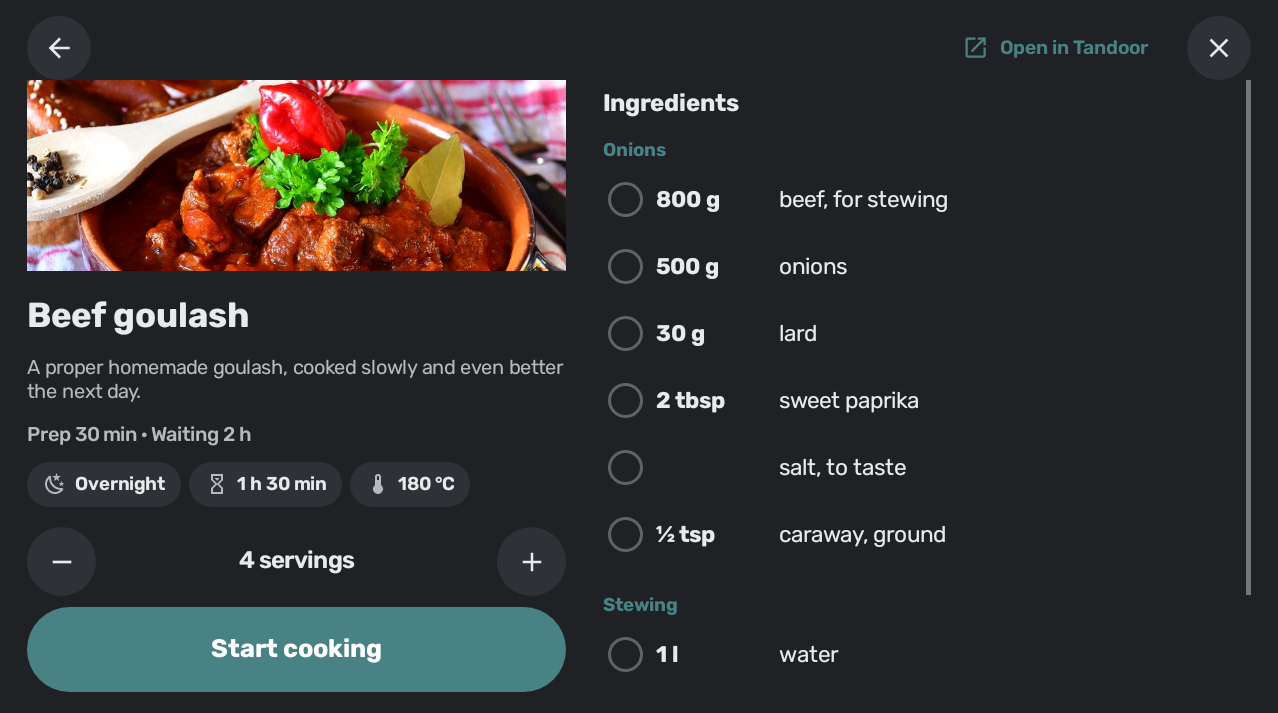
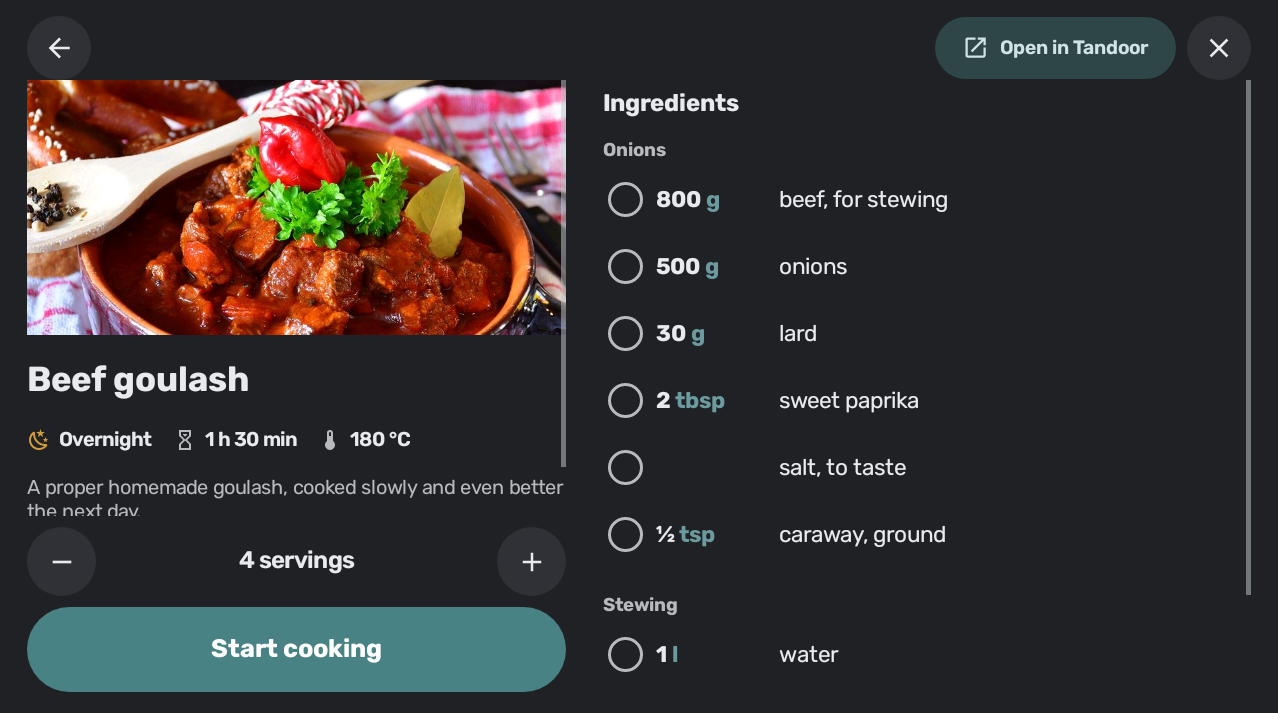
Release 0.2.0

diff --git a/CHANGELOG.md b/CHANGELOG.md
@@ -1,5 +1,19 @@
 # Changelog
 
+## 0.2.0
+
+A clearer kitchen screen, checked with three design reviews.
+
+- **Added** a Look setting. Warm kitchen gives the panel a cream or deep brown ground and a herb green, after Norish's look. The timer card over the dashboard keeps the kiosk's colors.
+- **Changed** the timer card over the dashboard: the time comes first and large, with +N for more timers, and the card turns red with Stop when a timer rings. It showed a fifth and sixth timer it meant to leave out.
+- **Changed** the timer sheet: delete is a bin set apart from pause, and a paused timer says so.
+- **Changed** contrast throughout: text buttons, ingredient rings, the selected filter, meal types and the step previews read at 4.5:1, or 3:1 for marks.
+- **Changed** the recipe page: a larger rounded photo, the overnight, long-wait and oven warnings right under the name, and units in their own color. The step shows its number in a circle and a rounded progress bar.
+- **Changed** short screens keep the search results, warnings and End cooking in view.
+- **Changed** a timer left running in another recipe names that recipe.
+- **Fixed** TalkBack: the plus and minus buttons work with it, keys and servings buttons have names, ticked ingredients say so, and a step's timers can be started from it.
+- **Fixed** scaled spoon amounts round to eighths, so no more 0,63.
+
 ## 0.1.0
 
 The first release.
